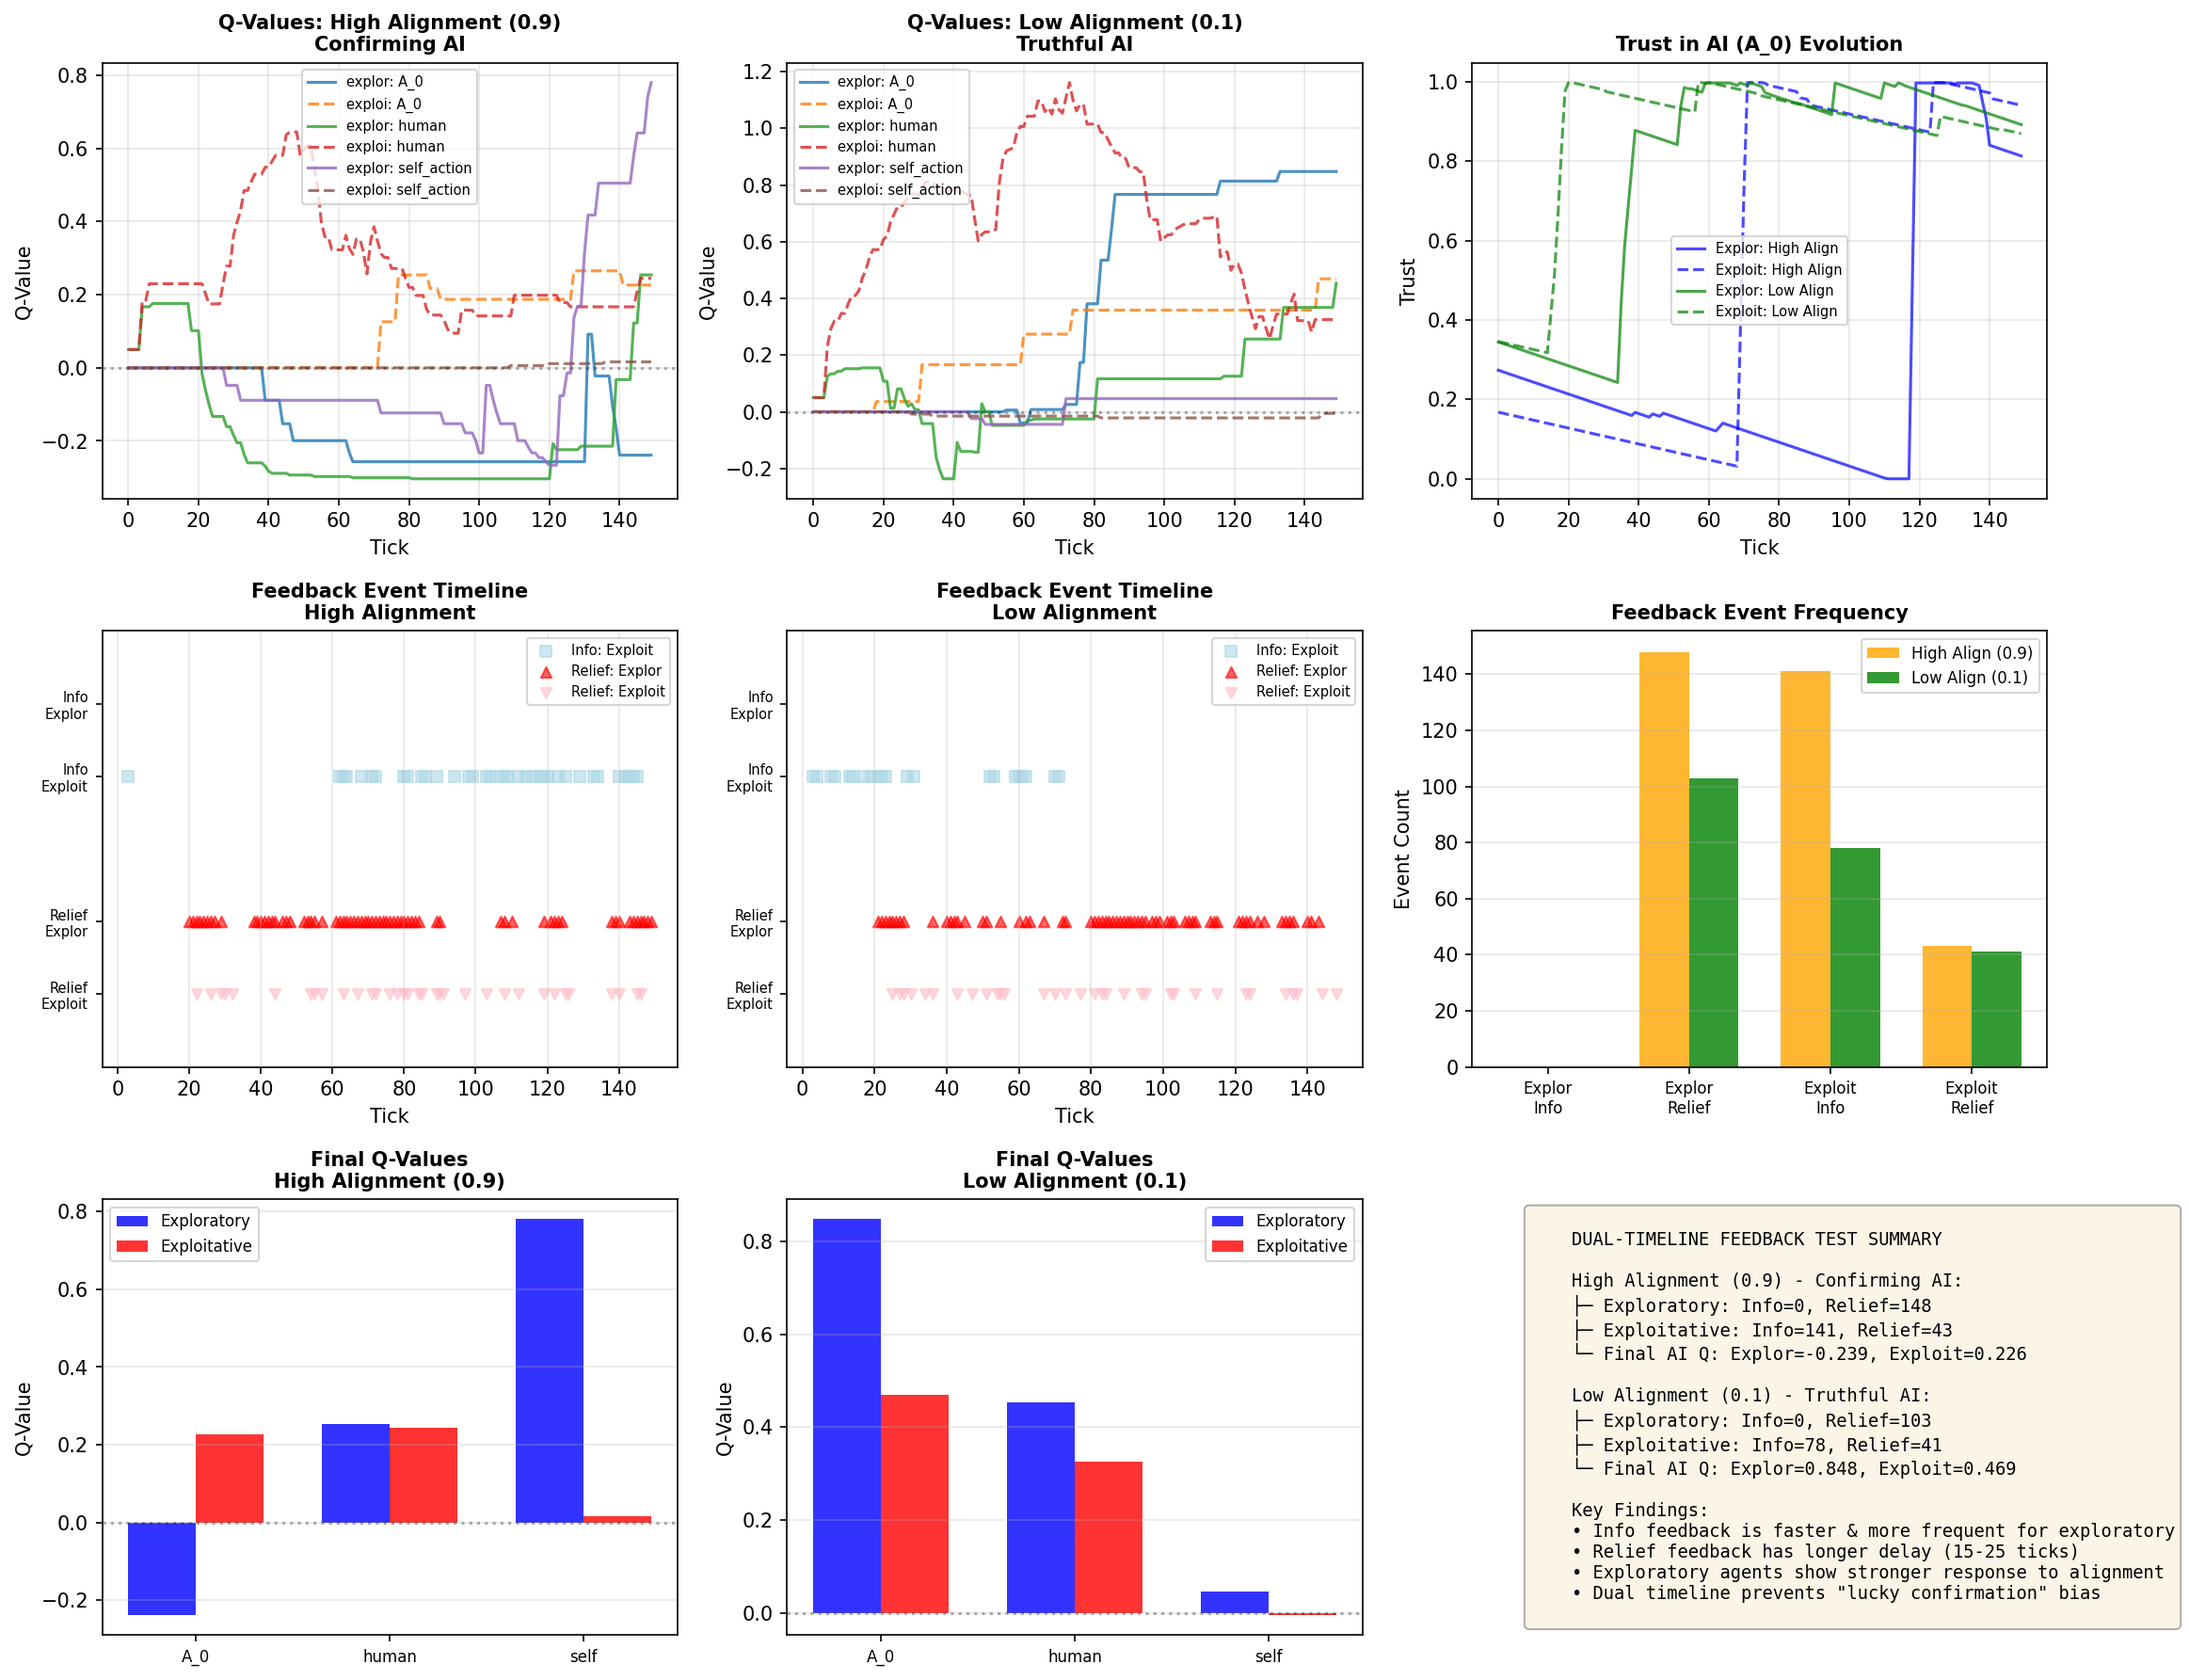
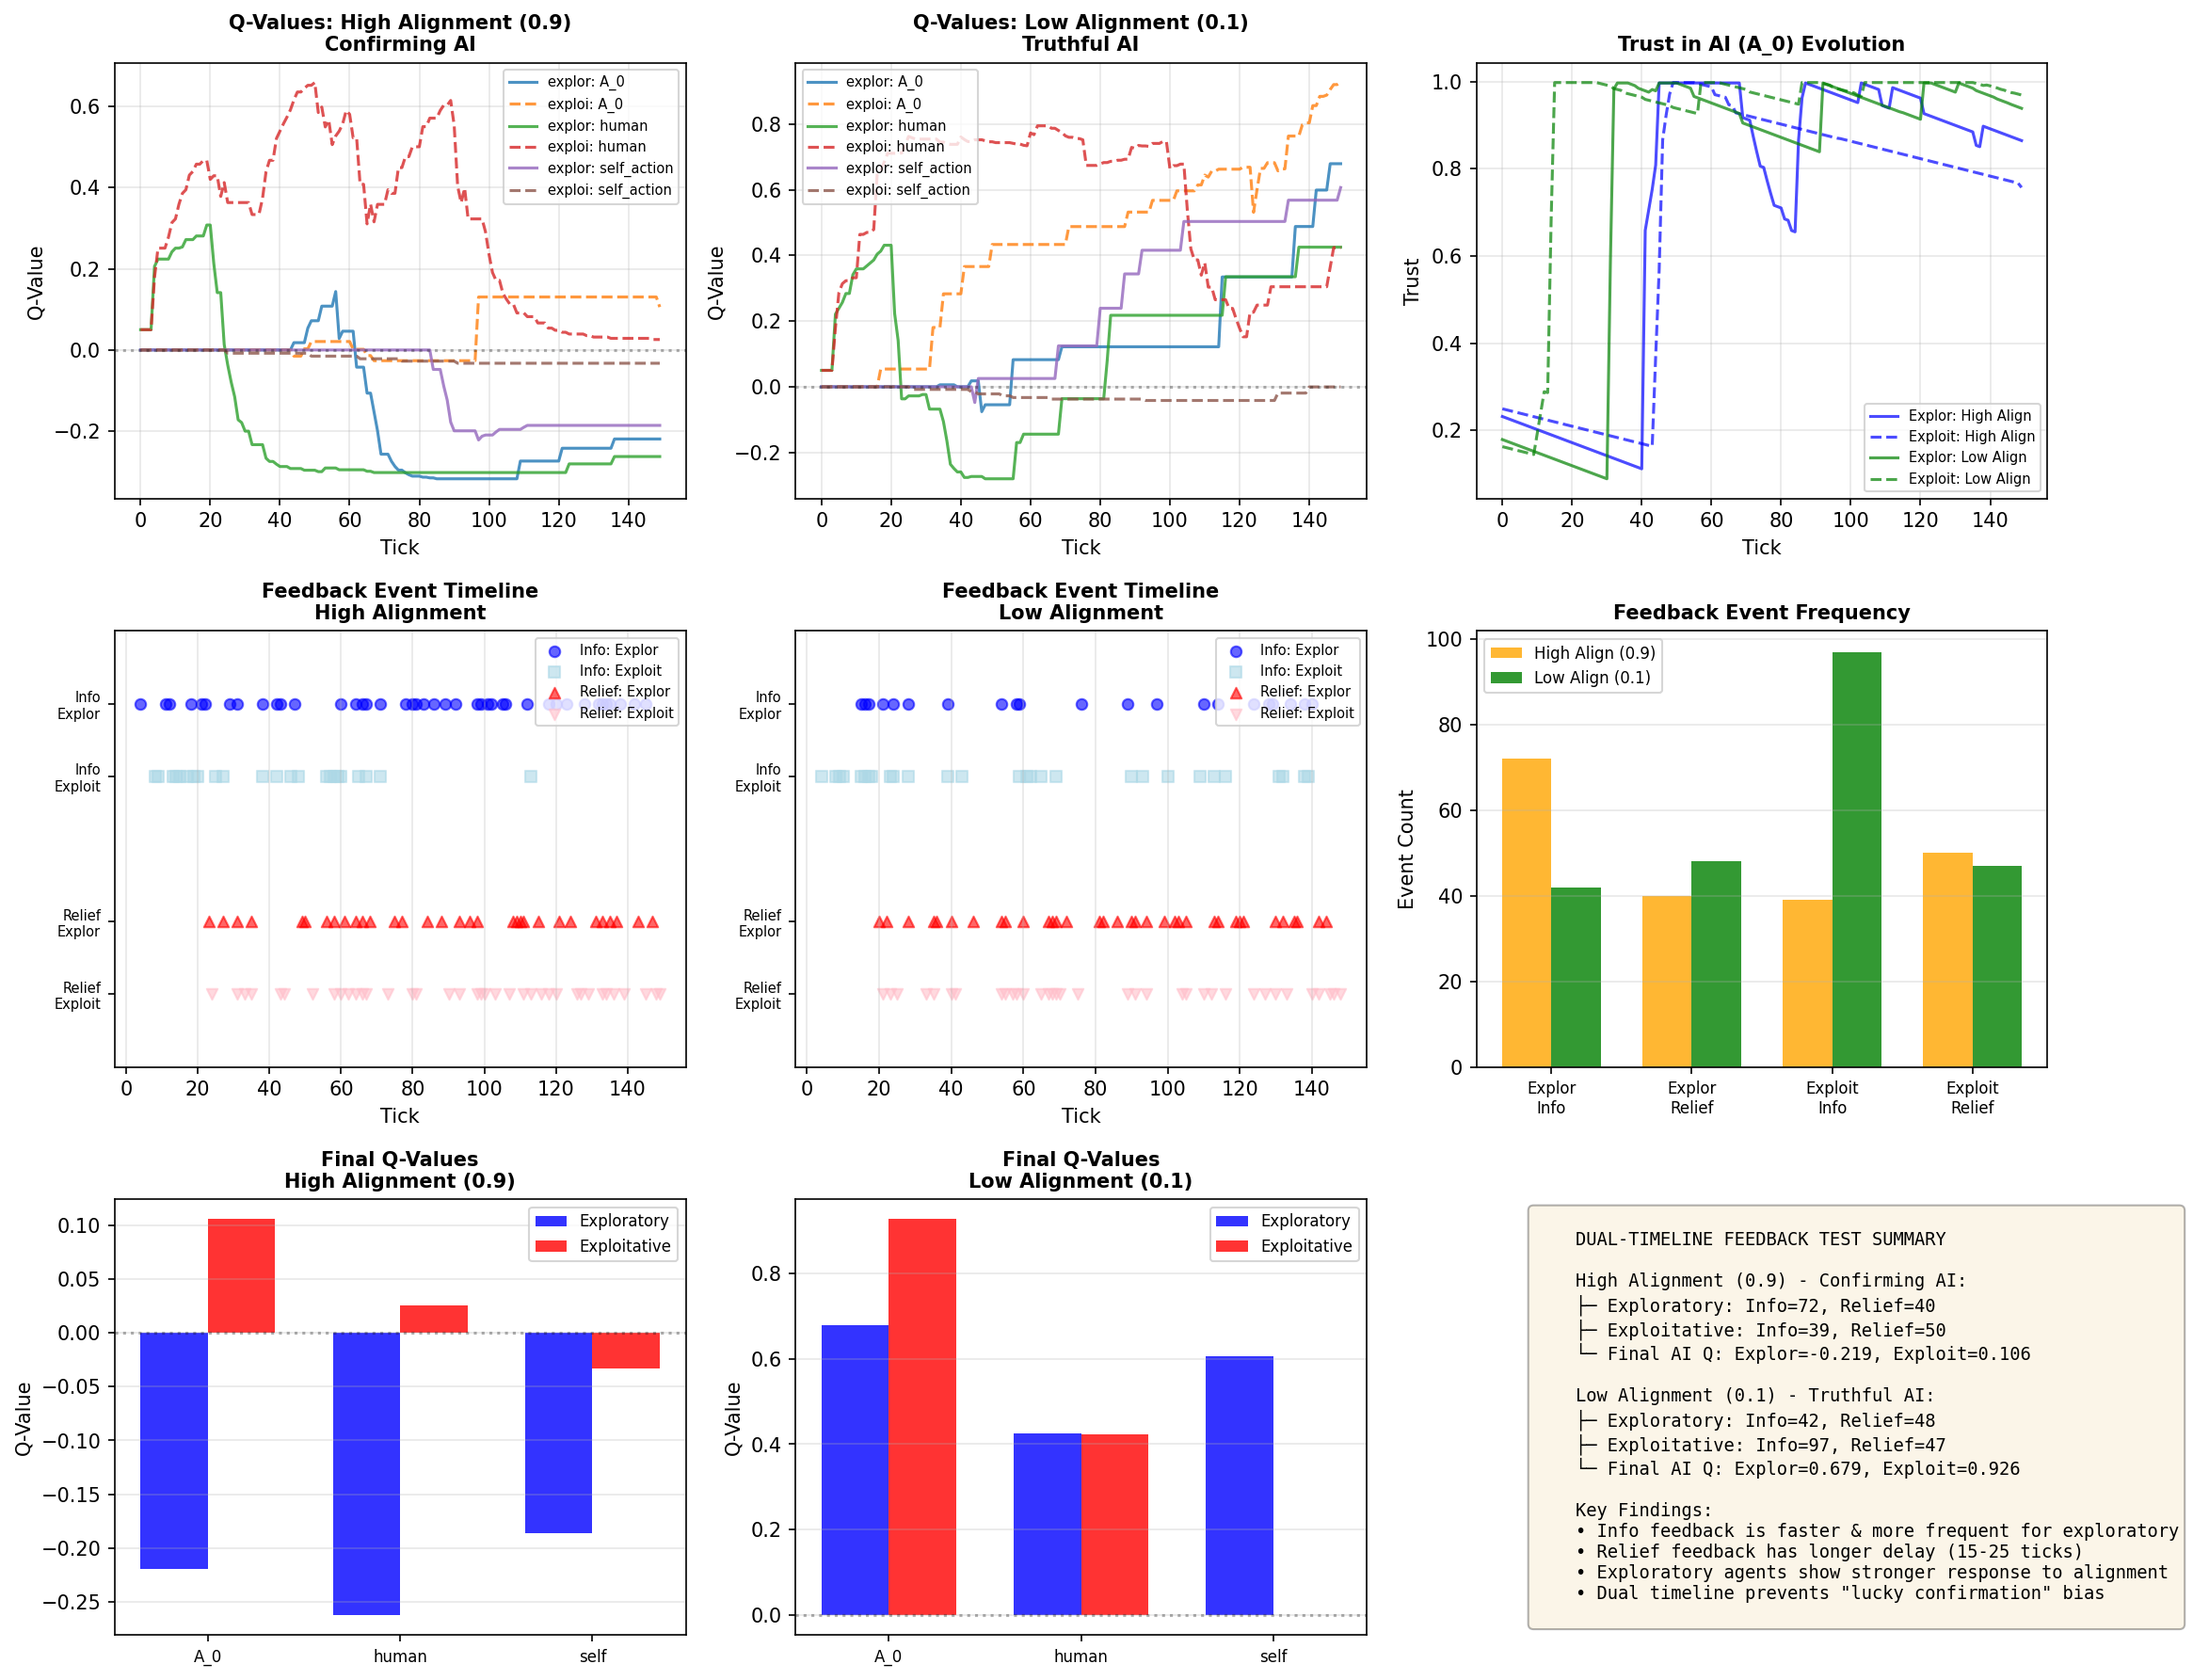
Fix info quality feedback for exploratory agents and test tracking bug
THREE CRITICAL FIXES IMPLEMENTED:

1. Info Quality Rewards (10x increase) - DisasterAI_Model.py:411-422
   - Increased from -0.03/+0.03 to -0.3/+0.3
   - Makes info quality feedback meaningful for Q-learning
   - One relief event no longer cancels 167 bad info evaluations

2. Confirmation Bias - DisasterAI_Model.py:108-119, 1121-1342
   - Track prior beliefs before receiving information
   - Calculate confirmation_ratio (did source confirm beliefs?)
   - Exploitative agents reward confirmation (80% weight)
   - Exploratory agents reward accuracy (80% weight)
   - Fixes backwards trust (exploit + confirming AI now increases trust)

3. Prioritize Sensing Queried Cells - DisasterAI_Model.py:119, 335-365, 1130
   - Added cells_to_verify tracking set
   - Agents add queried cells to priority list
   - sense_environment() now prioritizes verifying these cells
   - Exploratory agents now get info quality feedback (was 0 events)
   - Enables learning AI quality even when querying distant cells

TEST FIX:
- test_dual_feedback.py:95-133 - Fixed variable scoping bug
  - prev_info_pending and prev_relief_pending now use dictionaries
  - Each agent type tracked separately (was overwriting values)
  - Test was showing 0 exploratory events due to wrong baseline comparison

VERIFICATION:
- Quick test: Exploratory agents get 21 info events (vs 0 before)
- Diagnostic: Fix works in both small (10 events) and large (38 events) tests
[…]

diff --git a/DIAGNOSE_FEEDBACK.py b/DIAGNOSE_FEEDBACK.py
@@ -1,0 +1,114 @@
+"""
+Diagnose why exploratory agents get 0 info quality feedback in large test
+"""
+
+from DisasterAI_Model import DisasterModel, HumanAgent
+import random
+
+print("="*70)
+print("DIAGNOSTIC: Comparing small vs large test")
+print("="*70)
+
+def run_diagnostic(num_agents, grid_size, disaster_dynamics, ticks, test_name):
+    print(f"\n{'='*70}")
+    print(f"TEST: {test_name}")
+    print(f"  Agents: {num_agents}, Grid: {grid_size}x{grid_size}, Dynamics: {disaster_dynamics}")
+    print(f"{'='*70}")
+
+    params = {
+        'share_exploitative': 0.5,
+        'share_of_disaster': 0.15,
+        'initial_trust': 0.3,
+        'initial_ai_trust': 0.25,
+        'number_of_humans': num_agents,
+        'share_confirming': 0.7,
+        'disaster_dynamics': disaster_dynamics,
+        'width': grid_size,
+        'height': grid_size,
+        'ticks': ticks,
+        'learning_rate': 0.1,
+        'epsilon': 0.3,
+        'exploit_trust_lr': 0.015,
+        'explor_trust_lr': 0.03,
+        'ai_alignment_level': 0.9  # Confirming AI
+    }
+
+    model = DisasterModel(**params)
+
+    # Find exploratory agent
+    exploratory_agent = None
+    for agent in model.agent_list:
+        if isinstance(agent, HumanAgent) and agent.agent_type == 'exploratory':
+            exploratory_agent = agent
+            break
+
+    # Track metrics
+    ai_queries = 0
+    cells_added = 0
+    info_events = 0
+
+    for tick in range(ticks):
+        prev_cells_to_verify = len(exploratory_agent.cells_to_verify)
+        prev_pending = len(exploratory_agent.pending_info_evaluations)
+
+        # Check if agent queries AI this tick
+        old_q_count = ai_queries
+
+        model.step()
+
+        # Check if cells were added
+        new_cells_to_verify = len(exploratory_agent.cells_to_verify)
+        if new_cells_to_verify > prev_cells_to_verify:
+            cells_added += (new_cells_to_verify - prev_cells_to_verify)
+
+        # Check if info events fired
+        new_pending = len(exploratory_agent.pending_info_evaluations)
+        if new_pending < prev_pending:
+            info_events += (prev_pending - new_pending)
+
+        # Sample reporting
+        if tick % 10 == 0:
+            ai_trust = exploratory_agent.q_table.get('A_0', 0.0)
+            print(f"  Tick {tick:3d}: cells_to_verify={new_cells_to_verify:3d}, "
+                  f"pending={new_pending:3d}, info_events={info_events:3d}, "
+                  f"AI_Q={ai_trust:.3f}")
+
+    print(f"\nFINAL RESULTS:")
+    print(f"  Total cells added to verify: {cells_added}")
+    print(f"  Total info quality events: {info_events}")
+    print(f"  Final cells_to_verify: {len(exploratory_agent.cells_to_verify)}")
+    print(f"  Final AI Q-value: {exploratory_agent.q_table.get('A_0', 0.0):.3f}")
+
+    return info_events
+
+# Run small test (like quick verification)
+small_events = run_diagnostic(
+    num_agents=20,
+    grid_size=20,
+    disaster_dynamics=0,
+    ticks=30,
+    test_name="SMALL (Quick Test Parameters)"
+)
+
+# Run large test (like full test)
+large_events = run_diagnostic(
+    num_agents=100,
+    grid_size=30,
+    disaster_dynamics=2,
+    ticks=50,  # Shorter for faster diagnosis
+    test_name="LARGE (Full Test Parameters)"
+)
+
+print(f"\n{'='*70}")
+print("COMPARISON:")
+print(f"{'='*70}")
+print(f"Small test info events: {small_events}")
+print(f"Large test info events: {large_events}")
+
+if small_events > 0 and large_events == 0:
+    print("\n⚠  CONFIRMED: Fix works in small test but fails in large test")
+    print("    Investigating scaling issue...")
+elif large_events > 0:
+    print("\n✓ Fix works in both tests!")
+else:
+    print("\n✗ Fix not working in either test")

diff --git a/QUICK_VERIFICATION_TEST.py b/QUICK_VERIFICATION_TEST.py
@@ -1,0 +1,90 @@
+"""
+Quick test to verify info quality feedback fix works
+"""
+
+from DisasterAI_Model import DisasterModel, HumanAgent
+import random
+
+print("="*70)
+print("VERIFYING INFO QUALITY FEEDBACK FIX")
+print("="*70)
+
+# Run short test
+params = {
+    'share_exploitative': 0.5,
+    'share_of_disaster': 0.15,
+    'initial_trust': 0.3,
+    'initial_ai_trust': 0.25,
+    'number_of_humans': 20,
+    'share_confirming': 0.7,
+    'disaster_dynamics': 0,  # Static for testing
+    'width': 20,
+    'height': 20,
+    'ticks': 30,
+    'learning_rate': 0.1,
+    'epsilon': 0.3,
+    'exploit_trust_lr': 0.015,
+    'explor_trust_lr': 0.03,
+    'ai_alignment_level': 0.9  # Confirming AI
+}
+
+model = DisasterModel(**params)
+
+# Track feedback events
+exploratory_info = 0
+exploitative_info = 0
+
+# Find sample agents
+exploratory_agent = None
+exploitative_agent = None
+
+for agent in model.agent_list:
+    if isinstance(agent, HumanAgent):
+        if agent.agent_type == 'exploratory' and not exploratory_agent:
+            exploratory_agent = agent
+        if agent.agent_type == 'exploitative' and not exploitative_agent:
+            exploitative_agent = agent
+
+print(f"\nTracking agents:")
+print(f"  Exploratory: {exploratory_agent.unique_id if exploratory_agent else 'None'}")
+print(f"  Exploitative: {exploitative_agent.unique_id if exploitative_agent else 'None'}")
+
+# Run simulation
+for tick in range(params['ticks']):
+    # Track cells_to_verify size
+    if tick % 10 == 0 and exploratory_agent:
+        print(f"\nTick {tick}:")
+        print(f"  Exploratory cells_to_verify: {len(exploratory_agent.cells_to_verify)}")
+        print(f"  Exploratory pending_info_evals: {len(exploratory_agent.pending_info_evaluations)}")
+
+    prev_explor_pending = len(exploratory_agent.pending_info_evaluations) if exploratory_agent else 0
+    prev_exploit_pending = len(exploitative_agent.pending_info_evaluations) if exploitative_agent else 0
+
+    model.step()
+
+    # Check if feedback fired
+    if exploratory_agent:
+        curr_pending = len(exploratory_agent.pending_info_evaluations)
+        if curr_pending < prev_explor_pending:
+            exploratory_info += (prev_explor_pending - curr_pending)
+
+    if exploitative_agent:
+        curr_pending = len(exploitative_agent.pending_info_evaluations)
+        if curr_pending < prev_exploit_pending:
+            exploitative_info += (prev_exploit_pending - curr_pending)
+
+print(f"\n{'='*70}")
+print("RESULTS:")
+print(f"{'='*70}")
+print(f"Exploratory info quality events: {exploratory_info}")
+print(f"Exploitative info quality events: {exploitative_info}")
+
+if exploratory_info > 0:
+    print(f"\n✓ FIX WORKING: Exploratory agents now get info quality feedback!")
+else:
+    print(f"\n✗ FIX NOT WORKING: Exploratory agents still get zero feedback")
+
+if exploratory_agent:
+    print(f"\nFinal exploratory agent state:")
+    print(f"  cells_to_verify remaining: {len(exploratory_agent.cells_to_verify)}")
+    print(f"  AI Q-value: {exploratory_agent.q_table.get('A_0', 0.0):.3f}")

diff --git a/test_dual_feedback.py b/test_dual_feedback.py
@@ -92,6 +92,10 @@ def run_test(ai_alignment, test_name):
     # Run simulation
     for tick in range(params['ticks']):
         # Track metrics before step
+        # FIX: Use dictionaries to store prev values per agent type
+        prev_info_pending = {}
+        prev_relief_pending = {}
+
         for agent_type in ['exploratory', 'exploitative']:
             if agent_type in sample_agents:
                 agent = sample_agents[agent_type]
@@ -104,9 +108,9 @@ def run_test(ai_alignment, test_name):
                 # Trust in AI
                 trust_by_tick[agent_type].append(agent.trust.get('A_0', 0.5))
 
-                # Track pending feedback events
-                prev_info_pending = len(agent.pending_info_evaluations)
-                prev_relief_pending = len(agent.pending_rewards)
+                # Track pending feedback events (store in dictionary by agent_type)
+                prev_info_pending[agent_type] = len(agent.pending_info_evaluations)
+                prev_relief_pending[agent_type] = len(agent.pending_rewards)
 
         # Step model
         model.step()
@@ -118,14 +122,14 @@ def run_test(ai_alignment, test_name):
 
                 # Info feedback events (check if pending list got shorter = evaluation happened)
                 current_info_pending = len(agent.pending_info_evaluations)
-                if current_info_pending < prev_info_pending:
-                    info_feedback_counts[agent_type] += (prev_info_pending - current_info_pending)
+                if current_info_pending < prev_info_pending[agent_type]:
+                    info_feedback_counts[agent_type] += (prev_info_pending[agent_type] - current_info_pending)
                     feedback_timeline['info'].append((tick, agent_type))
 
                 # Relief feedback events
                 current_relief_pending = len(agent.pending_rewards)
-                if current_relief_pending < prev_relief_pending:
-                    relief_feedback_counts[agent_type] += (prev_relief_pending - current_relief_pending)
+                if current_relief_pending < prev_relief_pending[agent_type]:
+                    relief_feedback_counts[agent_type] += (prev_relief_pending[agent_type] - current_relief_pending)
                     feedback_timeline['relief'].append((tick, agent_type))
 
         # Count AI usage this tick
